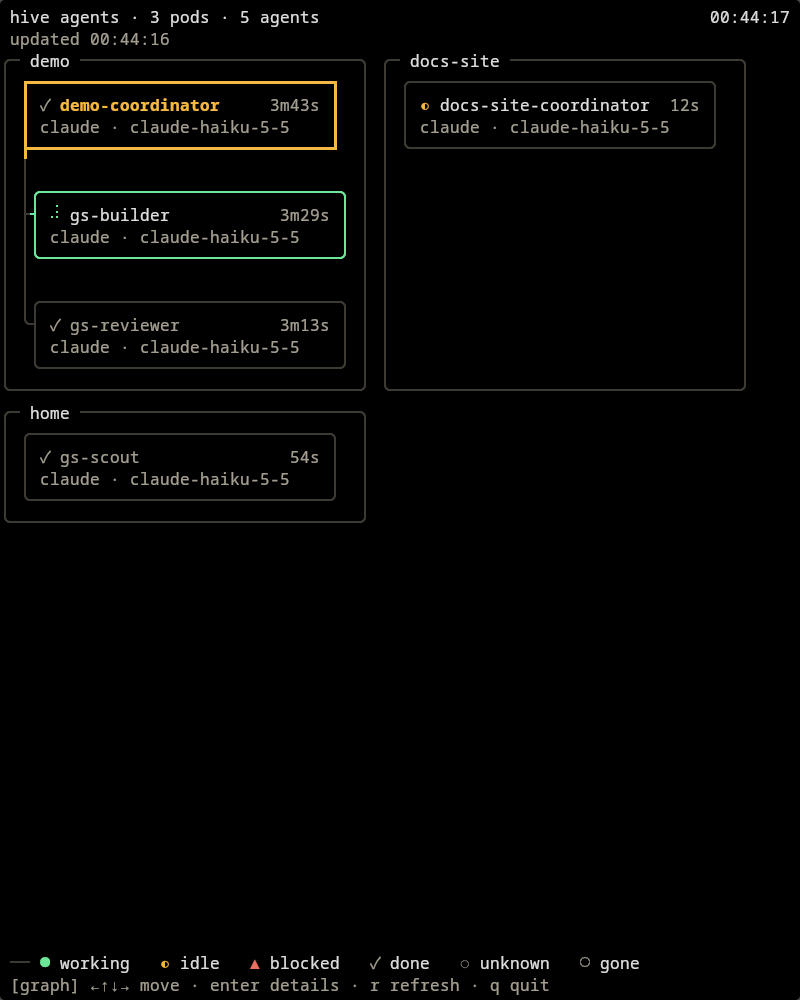
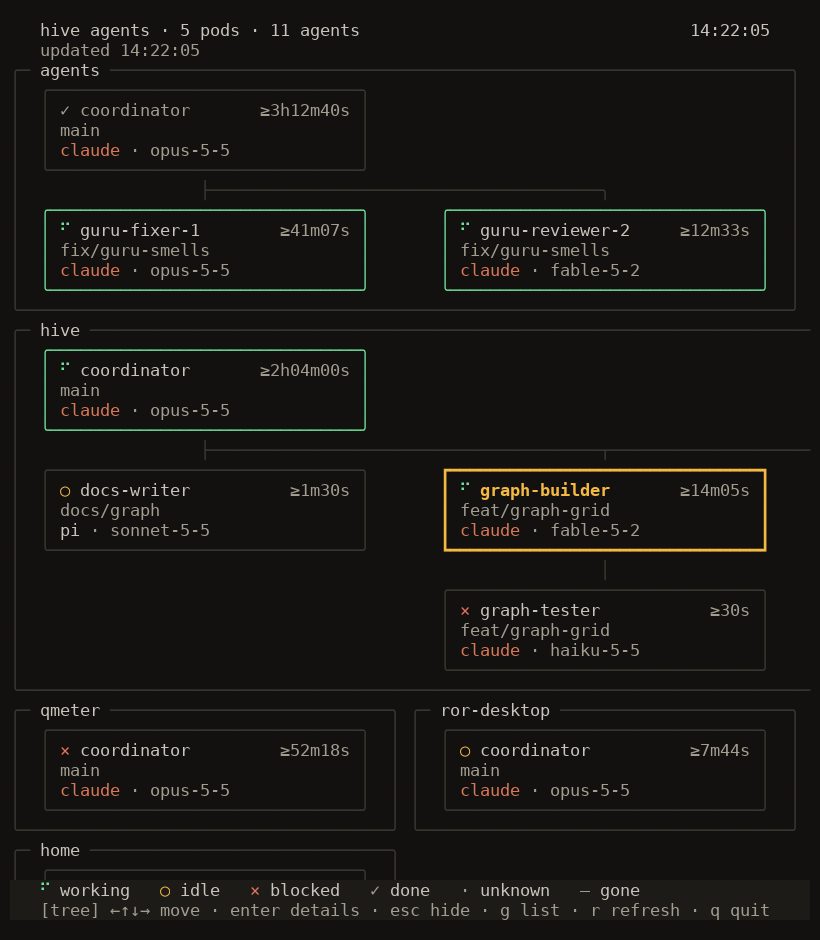
docs(agent): update the agent graph screenshots

diff --git a/docs/screenshots/README.md b/docs/screenshots/README.md
@@ -1,29 +1,42 @@
 # Agent graph screenshots
 
-Live captures of `hive agent graph` in a kitty terminal on 2026-10-31. The
-agents were real claude sessions started with bare `hive` and
-`hive agent spawn` in herdr, with `HIVE_HOME` set to a scratch directory.
+Renders of `hive agent graph` made on 2026-11-25. They are not live
+sessions. A test in `internal/agent/graph` built the model with fixed sample
+agents and wrote the text of its real `View()`, with its SGR colours. A script
+then drew that text to PNG on a fixed cell grid of 10 × 20 pixels, one glyph
+in each cell, with a margin of one cell. The script used DejaVu Sans Mono
+16.6 px, its bold face for bold text, and DejaVu Sans for the braille spinner,
+which DejaVu Sans Mono does not have. Neither the test nor the script is in
+the repository.
 
-| File | Terminal size | Pixels |
-| --- | --- | --- |
-| `agent-graph-wide.png` | 132 × 36 cells | 1320 × 800 |
-| `agent-graph-narrow.png` | 80 × 45 cells | 800 × 1000 |
+| File | Mode | Size in cells | Pixels |
+| --- | --- | --- | --- |
+| `agent-graph-wide.png` | tree | 200 × 48 | 2020 × 1000 |
+| `agent-graph-narrow.png` | tree | 80 × 45 | 820 × 940 |
+| `agent-graph-list.png` | list | 200 × 48 | 2020 × 1000 |
 
-Both captures show:
+Each file shows the same 11 sample agents in five pods: `agents` (a
+coordinator with two children), `hive` (a coordinator with three children and
+one grandchild), `qmeter`, `ror-desktop`, and `home`. The agents cover each
+status except unknown and gone, and the harnesses claude, codex, and pi. The
+selected card is `graph-builder`, with its heavy outline.
 
-- Project coordinator names: bare `hive` in the checkouts of the projects
-  `demo` and `docs-site` saved the records `demo-coordinator` and
-  `docs-site-coordinator`. Each heads its own project pod.
-- The `home` pod with `gs-scout`, an agent with no project coordinator.
-- Card row 1: the status glyph, the agent name, and the elapsed time in
-  seconds, for example `3m43s`.
-- Card row 2: the harness and the model, for example
-  `claude · claude-haiku-5-5`.
-- The header clock with seconds at the top right, and the time of the last
-  refresh below the title.
-- A braille spinner frame on `gs-builder`, the one agent with status
-  `working`. The other agents show the glyphs of the legend.
-- The selected card, `demo-coordinator`, with a highlighted border.
+The layout:
 
-At 132 columns the three pods fit on one row. At 80 columns the `home` pod
-wraps to a second row.
+- Cards and pods are on a grid of tracks 40 cells apart. A card is 33 cells
+  wide and starts 3 cells into its track. A pod of n tracks is 40n - 1 cells
+  wide. A row of pods holds (W + 1) / 40 tracks of the screen width W, and a
+  pod that does not fit starts a new row.
+- Tree mode: each subtree takes one track for each leaf, and a parent is over
+  its first child. The join row below a parent has `├`, `┬`, and `╮`, or `│`
+  for one child.
+- List mode: a pod is one track. Each child starts 3 cells right of its
+  parent, is 3 cells narrower, and ends in the column of the root. A rail
+  joins the children with a tick in the middle row of each child.
+- Header: the title and the status start at column 3, and the clock ends 5
+  cells from the right edge.
+- Footer: a bar with a dark background. At 200 columns, the legend is on the
+  left and the keys are on the right of one row. At 80 columns it has two
+  rows. At 80 columns, the `hive` pod is wider than the screen and is cut at
+  the right edge, where the board scrolls sideways, and the `home` pod is
+  below the pod area.
